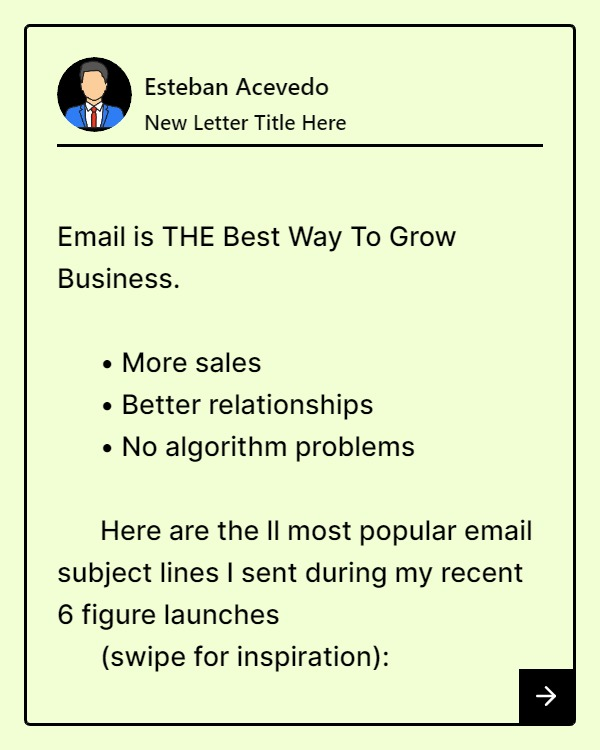
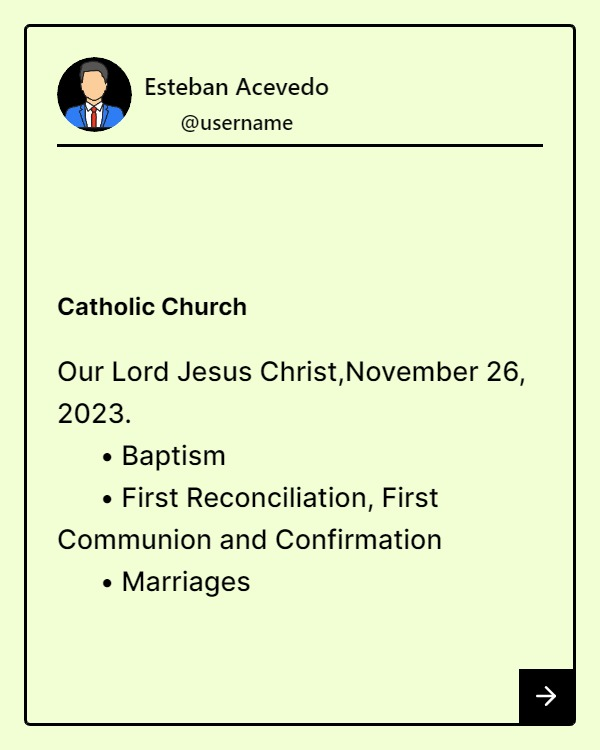
example change

Changed region(s): [[0.09, 0.46, 0.9, 0.8893], [0.09, 0.276, 0.78, 0.4293], [0.24, 0.1533, 0.57, 0.184]]

diff --git a/src/components/Crousals/TemplateOne.tsx b/src/components/Crousals/TemplateOne.tsx
@@ -25,9 +25,7 @@ const [templateData, setTemplateData] = useState ({
         {
           className: "",
           Title: "Saint Daniel the Prophet Roman Catholic Church ",
-          subtitle: `Our Lord Jesus Christ, King of the Universe
-November 26, 2023. 
-                  
+          subtitle: `Our Lord Jesus Christ,November 26, 2023. 
       • Baptism 
       • First Reconciliation, First Communion and Confirmation
       • Marriages`,
@@ -37,30 +35,14 @@ November 26, 2023.
         },
         {
           className: "",
-    
           Title: "Readings for the week of November 26, 2023",
           subtitle: `This Weeks Reading `,
-          description: `Sunday: Ez 34:11-12, 15-17/Ps 23:1-2, 2-3, 5-6
-(1)/1 Cor 15:20-26, 28/Mt 25:31-46
-Monday: Dn 1:1-6, 8-20/Dn 3:52, 53, 54, 55, 56/
-Lk 21:1-4
-Tuesday: Dn 2:31-45/Dn 3:57, 58, 59, 60, 61/
-Lk 21:5-11
-Wednesday: Dn 5:1-6, 13-14, 16-17, 23-28/
-Dn 3:62, 63, 64, 65, 66, 67/Lk 21:12-19
-Thursday: Rom 10:9-18/Ps 19:8, 9, 10, 11/Mt 4:18-22
-Friday: Dn 7:2-14/Dn 3:75, 76, 77, 78, 79, 80, 81/
-Lk 21:29-33
-Saturday: Dn 7:15-27/Dn 3:82, 83, 84, 85, 86, 87/
-Lk 21:34-36
-Next Sunday: Is 63:16b-17, 19b; 64:2-7/Ps 80:2-3,
-15-16, 18-19 (4)/1 Cor 1:3-9/Mk 13:33-37`,
+          description: `Sunday: Our Lord Jesus Christ, King of the Universe`,
           banner: true,
           bannerUrl: banner,
         },
         {
           className: "",
-    
           Title: "Parish Office Hours",
           subtitle: ``,
           description: `8:45AM - 5:00PM, Monday - Thursday
@@ -71,7 +53,6 @@ Closed Friday and Saturday
         },
         {
           className: "",
-    
           Title: "Observances for the week ",
           subtitle: `November 26, 2023`,
           description: `Sunday: Our Lord Jesus Christ, King of the Universe

diff --git a/src/components/slidebarComponents/FullNameHandle.tsx b/src/components/slidebarComponents/FullNameHandle.tsx
@@ -14,7 +14,7 @@ setCrousalHandle((v:any) => ({ ...v, ['fullname']:value}))
   return (
      <div className="grid w-full max-w-sm items-center gap-1.5">
      <Label htmlFor="fullname">Your Name</Label>
-     <Input type="text" id="fullname" name='fullname' placeholder="John Dow" defaultValue={crousalHandle.fullname} onChange={handleInput} />
+     <Input type="text" id="fullname" name='fullname' placeholder="e.g. Esteban Acevedo" defaultValue={crousalHandle.fullname} onChange={handleInput} />
    </div>
   )
 }

diff --git a/src/components/slidebarComponents/UsernameHandle.tsx b/src/components/slidebarComponents/UsernameHandle.tsx
@@ -14,7 +14,7 @@ setCrousalHandle((v:any) => ({ ...v, ['username']:value}))
   return (
     <div className="grid w-full max-w-sm items-center gap-1.5">
     <Label htmlFor="username">Handle</Label>
-    <Input type="text" id="username" name='username' placeholder="@John_Doe" defaultValue={crousalHandle.username} onChange={handleInput} />
+    <Input type="text" id="username" name='username' placeholder="@Esteban_Acevedo" defaultValue={crousalHandle.username} onChange={handleInput} />
   </div>
   )
 }

diff --git a/src/lib/Context.tsx b/src/lib/Context.tsx
@@ -51,8 +51,8 @@ const MyContext = createContext<DataContextTypes | undefined>(undefined);
 
 export const DataProvider = ({ children }: { children: React.ReactNode }) => {
   const [crousalHandle, setCrousalHandle] = useState<userHandletypes>({
-    fullname: "John Doe",
-    username: "john_doe_123",
+    fullname: "Esteban Acevedo",
+    username: "@Esteban_Acevedo",
   });
   const [count, setCount] = useState<number>(0);
   const [crouLength, setCrouLength] = useState<number>(1);
